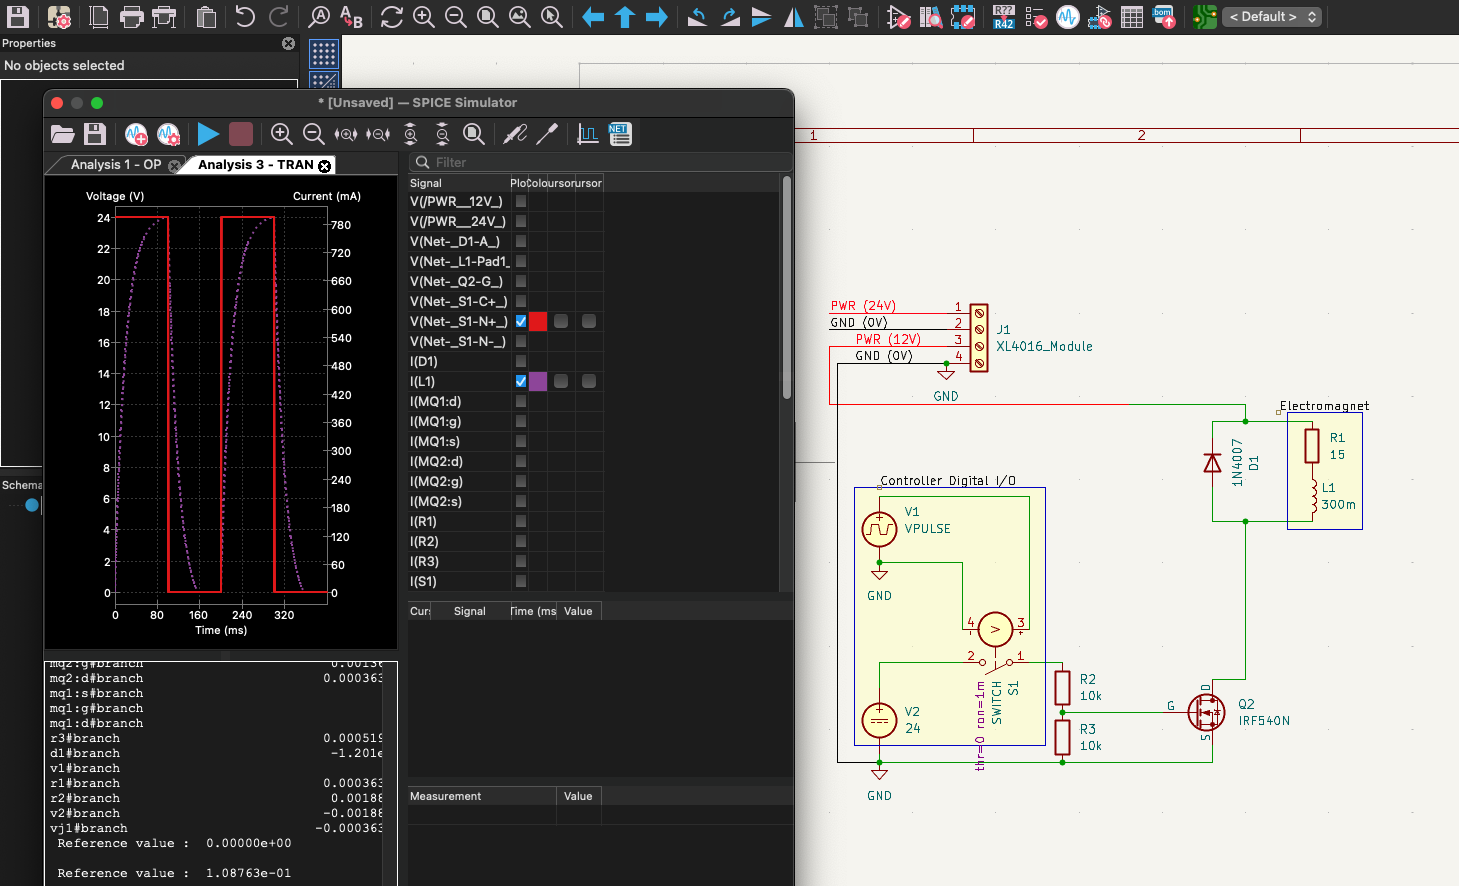
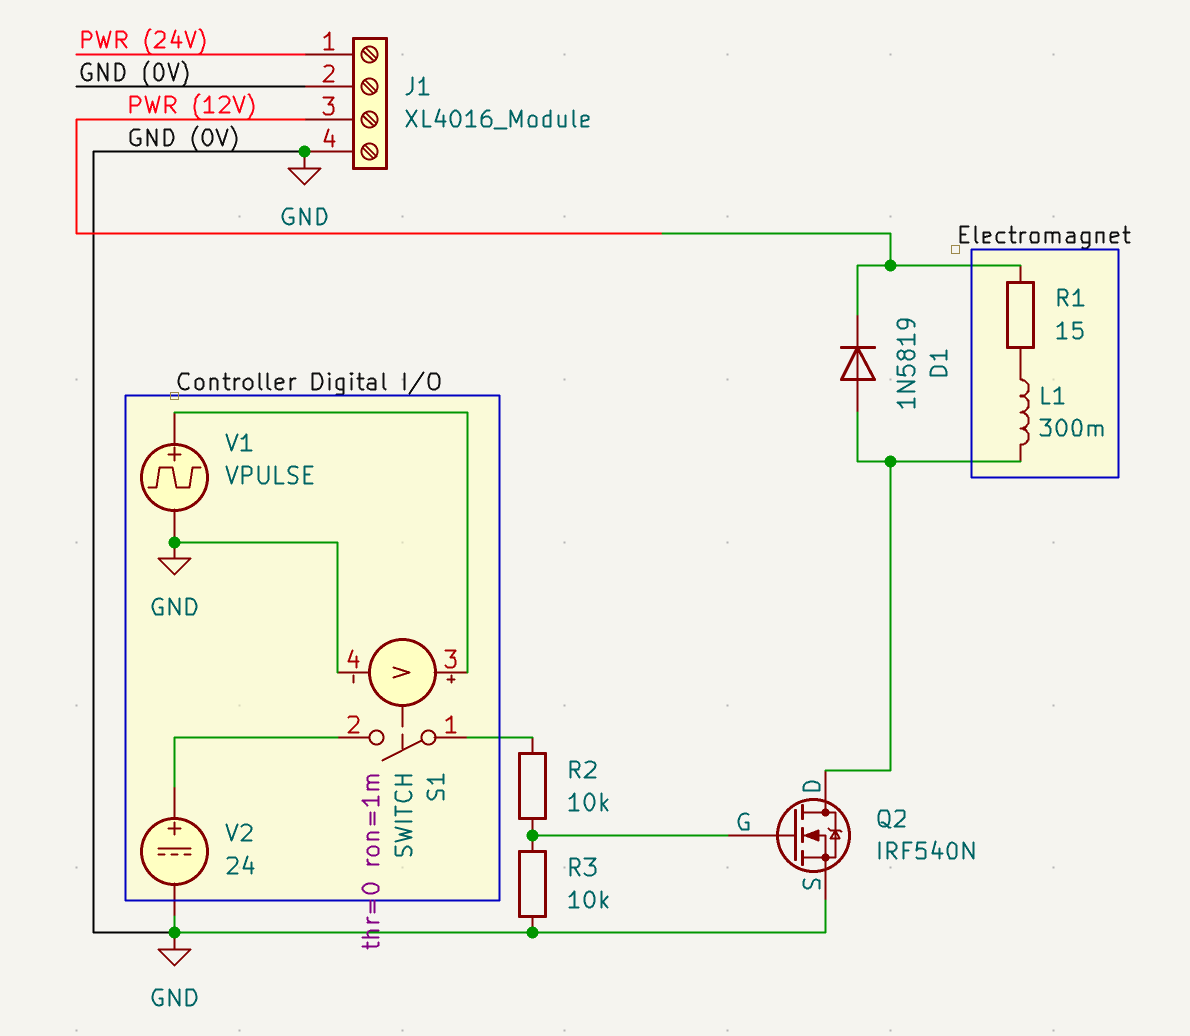
Add end-effector magnet feasibility calculation and driver circuit design page
- 03_calculations: magnet feasibility for a 1/4 inch steel shaft (vertical and
  horizontal lift)
- 04_design: driver circuit page with updated KiCad schematic (1N5819),
  simulation with and without the flyback diode, built-circuit photos and
  wire table
- README: add end effector photo, update folder table and open issues

diff --git a/Engineering_Portfolio/end-effector/README.md b/Engineering_Portfolio/end-effector/README.md
@@ -8,25 +8,8 @@ The end effector is everything mounted on the end of the UR5e arm that lets it f
 - **Power and drive circuit.** The robot control box supplies 24 V, a buck converter steps it down to the magnet's 12 V, and a MOSFET switches the magnet on and off. A controller digital output drives the MOSFET, and a flyback diode across the magnet absorbs the voltage spike when it switches off.
 - **Wire management and dressing.** Strain-relief clamps, cable clips and a control box board mount that carry the magnet and camera wiring along the arm without loading the connections.
 
-![KiCad schematic and SPICE simulation of the electromagnet driver circuit](09_figures/electromagnet_circuit.png)
-*Figure 1. KiCad schematic of the driver circuit, with a SPICE transient simulation of the switched magnet.*
-
-![Buck converter and MOSFET driver board on the 3D-printed mount](09_figures/buck_and_mosfet_boards.jpg)
-*Figure 2. Built circuit: the buck converter (left) and the MOSFET driver board (right) on their 3D-printed mount.*
-
-Wires entering the top of Figure 2, left to right:
-
-| Board | Wire colour | Connects to |
-|---|---|---|
-| Buck converter | Red | 12 V output, to the magnet |
-| Buck converter | Black | Ground |
-| Buck converter | Red | 24 V input, from the controller's PWR terminal |
-| MOSFET driver | Black | 0 V |
-| MOSFET driver | Red | 24 V digital output from the controller |
-| MOSFET driver | Green | Magnet negative |
-
-![Flyback diode board with wires to the driver circuit and the magnet](09_figures/flyback_diode_board.jpg)
-*Figure 3. Flyback diode board. The wires from the driver circuit connect at one end and the magnet's + and − terminals at the other, with the diode across the two.*
+![End effector mounted on the UR5e wrist](09_figures/end_effector_mounted.png)
+*Figure 1. The end effector mounted on the UR5e wrist, with the cable strain-relief clamp and braided sleeve at the top.*
 
 ## Requirements it serves
 
@@ -50,25 +33,25 @@ Requirement numbers are from the project proposal (Table 2).
 | Folder | Contents |
 |---|---|
 | [`01_requirements/`](01_requirements/) | End-effector requirements taken from R2, R3, R5 and R7, each with its rationale and test |
-| [`02_decisions/`](02_decisions/) | [Why an electromagnet](02_decisions/electromagnet.md) · [Driver and power architecture](02_decisions/driver-and-power.md) · [Release sensing](02_decisions/release-sensing.md) |
-| [`03_calculations/`](03_calculations/) | Magnet feasibility: how much the magnet can lift from a 1/4 inch (6.35 mm) steel shaft, checked for slipping in vertical lift and in horizontal lift. Camera field-of-view check |
-| [`04_design/`](04_design/) | Circuit schematic and KiCad simulation, with voltage traces with and without the flyback diode |
+| [`02_decisions/`](02_decisions/) | Why an electromagnet · Driver and power architecture · Release sensing |
+| [`03_calculations/`](03_calculations/) | [Magnet feasibility](03_calculations/magnet-feasibility.md): whether the magnet can hold a 1/4 inch (6.35 mm) steel shaft without slipping, checked for vertical and horizontal lift |
+| [`04_design/`](04_design/) | [Driver circuit](04_design/driver-circuit.md): KiCad schematic, simulation with and without the flyback diode, photos of the built circuit, and the wire connections |
 | [`05_code/`](05_code/) | Empty for now. The magnet is switched from the teach pendant |
 | [`06_experiments/`](06_experiments/) | Build log and test notes |
 | [`08_references/`](08_references/) | UR5e user manual (v5.8), [ZYE1-P series electromagnet datasheet](https://static.chipdip.ru/lib/802/DOC033802024.pdf) |
-| [`09_figures/`](09_figures/) | Circuit schematic and simulation, and photos of the built circuit |
+| [`09_figures/`](09_figures/) | Figures used in this section, including the KiCad schematic |
 
 ## Open issues
 
-- **The strain-relief clamps force a hard 90° bend in the cable.** The clamps hold the cable so that pulling on it does not load the connections. In some arm configurations the cable leaves the clamp at a sharp 90° bend, which is hard on the wire and the connection the clamp is meant to protect. Which configurations cause it has not been recorded yet.
+- **The strain-relief clamps force a hard 90° bend in the cable.** The clamps hold the cable so that pulling on it does not load the connections. The bend happens when the final wrist joint rotates so that the cable's exit from the clamp lines up with the rest of the wrist. It is hard on the wire and on the connection the clamp is meant to protect.
 - **The magnet gets warm enough to soften the PLA mount.** The mount currently encases the magnet completely in plastic, which may be trapping heat. These tests switched the magnet on and off from the teach pendant, so it stayed on for long periods at a much higher duty cycle than it will see in use. If the robot is moving tools constantly, the duty cycle will be 50% at most. The warming under realistic use is still unknown.
 
 ## Next steps
 
-1. Photograph the arm configurations that put the cable into a 90° bend and note them in the build log in [`06_experiments/`](06_experiments/). Then redesign the strain-relief clamps so the cable keeps a gentler bend in those configurations.
+1. Redesign the strain-relief clamps so the cable keeps a gentler bend when the final wrist joint rotates into those positions.
 2. Watch how warm the magnet gets at duty cycles closer to real use, up to 50%, and note what is seen in the build log.
 3. If the magnet still heats up under realistic use, pick one or both:
    - Print the mount in PETG or ABS, which soften at higher temperatures than PLA.
    - Add passive cooling by leaving more of the magnet exposed, or by fastening heat sinks to the magnet's body.
 4. Run the 0.45 kg bench test for R3, using the feasibility calculation as the expected result.
-5. Implement release by force sensing, after checking what the UR5e's wrist sensor can do (see [Release sensing](02_decisions/release-sensing.md)). The sensor's listed accuracy is 4 N, so the pull threshold has to sit well above that.
+5. Implement release by force sensing, after checking what the UR5e's wrist sensor can do (see the release sensing decision). The sensor's listed accuracy is 4 N, so the pull threshold has to sit well above that.

diff --git a/Engineering_Portfolio/end-effector/03_calculations/magnet-feasibility.md b/Engineering_Portfolio/end-effector/03_calculations/magnet-feasibility.md
@@ -1,0 +1,87 @@
+# Magnet Feasibility
+
+This calculation evaluates whether it is feasible for the electromagnet acquired, rated for 400 N, to hold a 1/4 inch (6.35 mm) steel screwdriver shaft without slipping, up to the 0.45 kg required by R3.
+
+## 1. Pull force
+
+For a flux density $B$ (in tesla) crossing a gap, the pull per unit area is
+
+$$p = \frac{B^2}{2\mu_0}$$
+
+where $\mu_0 = 4\pi \times 10^{-7}\ \mathrm{N/A^2}$ is the permeability of free space. The force on a contact of area $A$ is therefore
+
+$$F = \frac{B^2 A}{2\mu_0}$$
+
+Steel cannot carry unlimited flux. Above its saturation flux density $B_{sat}$, adding more current does not raise $B$ any further.
+
+## 2. Force available at the shaft
+
+The screwdriver shaft lies parallel to the magnet face. Flux enters the shaft from the face and travels along the shaft, so the flux the shaft can carry is limited by its cross-section:
+
+$$A_s = \frac{\pi d^2}{4} = \frac{\pi (6.35)^2}{4} = 31.7\ \mathrm{mm^2}$$
+
+The flux crossing the contact is at most $B_{sat} A_s$, and the flux density at the contact is at most $B_{sat}$, so the most force the contact can transmit is
+
+$$F_{sat} = \frac{B_{sat}^2 A_s}{2\mu_0}$$
+
+Assuming a saturation flux density of $B_{sat} = 1.5\ \mathrm{T}$,
+
+$$F_{sat} = \frac{(1.5)^2 (31.7\times10^{-6})}{2(4\pi\times10^{-7})} = 28.4\ \mathrm{N}$$
+
+For a single contact between the face and the shaft, the force available at the shaft is $F_n = 28.4\ \mathrm{N}$.
+
+## 3. Required force
+
+The tool weight is
+
+$$W = mg$$
+
+with $g = 9.81\ \mathrm{m/s^2}$. Acceleration of the arm is neglected.
+
+| Tool mass | $W$ |
+|---|---|
+| 0.15 kg (screwdriver) | 1.47 N |
+| 0.45 kg (R3) | 4.41 N |
+
+**Vertical lift.** The magnet face points down and the tool hangs from it, so the weight acts straight off the face. The tool stays on while
+
+$$F_n \ge W$$
+
+**Horizontal lift.** The magnet face is vertical and the weight acts along the face. Friction must prevent sliding:
+
+$$\mu F_n \ge W \quad\Rightarrow\quad F_n \ge \frac{W}{\mu}$$
+
+Assuming clean, dry steel on steel, $\mu = 0.5$.
+
+## 4. Evaluation
+
+The margin is $F_n / F_{required}$, with $F_n = 28.4\ \mathrm{N}$. The check passes when the margin is at least 1.
+
+**Vertical lift**
+
+| Tool mass | $F_{required}$ | Margin | Result |
+|---|---|---|---|
+| 0.15 kg | 1.47 N | 19.3 | Pass |
+| 0.45 kg | 4.41 N | 6.4 | Pass |
+
+**Horizontal lift**
+
+| Tool mass | $F_{required}$ | Margin | Result |
+|---|---|---|---|
+| 0.15 kg | 2.94 N | 9.6 | Pass |
+| 0.45 kg | 8.83 N | 3.2 | Pass |
+
+## Assumptions
+
+- The saturation flux density of the screwdriver steel is $B_{sat} = 1.5\ \mathrm{T}$, below the 1.6 T to 2 T typical of iron-core electromagnets. It has not been measured.
+- The friction coefficient of clean, dry steel on steel is $\mu = 0.5$, the low end of the tabulated range. It has not been measured on the real parts.
+- The shaft touches the magnet face at a single contact. A shaft bridging the centre and outer poles has two contacts, so the single-contact value is conservative.
+- The saturation limit of the shaft is taken as the force available. Air gaps and the narrow line contact of a round shaft would reduce the real force.
+
+## Sources
+
+- [ZYE1-P series electro holding magnets datasheet](https://static.chipdip.ru/lib/802/DOC033802024.pdf): 400 N rating.
+- [Magnet Energy: Maxwell magnetic force equation](https://www.magnetnrg.com/?p=370): $F = B^2 A / 2\mu_0$.
+- [US patent 10547218, background on electromagnets](https://image-ppubs.uspto.gov/dirsearch-public/print/downloadPdf/10547218): iron-core field limited to about 1.6 T to 2 T.
+- [Misumi: coefficient of friction](https://us.misumi-ec.com/blog/coefficient-of-friction/): 0.5 to 0.8 for clean, dry steel on steel.
+- Project proposal, Table 2: R3 and the 0.15 kg tool mass.

diff --git a/Engineering_Portfolio/end-effector/04_design/driver-circuit.md b/Engineering_Portfolio/end-effector/04_design/driver-circuit.md
@@ -1,0 +1,41 @@
+# Driver Circuit
+
+The driver circuit powers the electromagnet from the UR5e control box and switches it on and off from a controller digital output.
+
+## How it works
+
+- **Power.** The controller's PWR terminal supplies 24 V to an XL4016 buck converter module, which steps it down to the 12 V the magnet needs.
+- **Switching.** The magnet sits between the 12 V output and the drain of an IRF540N MOSFET. A 24 V controller digital output drives the gate through two 10 kΩ resistors in a divider, which holds the gate at about 12 V when the output is on.
+- **Flyback diode.** The magnet is a coil, so when the MOSFET turns off its current has nowhere to go and the voltage across the coil spikes. A 1N5819 diode across the magnet gives that current a path and protects the MOSFET.
+
+![KiCad schematic of the driver circuit](../09_figures/electromagnet_circuit.png)
+*Figure 1. KiCad schematic of the driver circuit. The magnet is modelled as a 15 Ω resistance in series with a 300 mH inductance.*
+
+## Simulation
+
+The circuit was simulated in KiCad with the MOSFET switching the magnet on and off, first without and then with the flyback diode. Without the diode, the voltage spikes to about 3 kV when the MOSFET turns off, far above the IRF540N's 100 V drain-source rating, and the magnet current drops to zero immediately. With the diode, the voltage rises to about 12.8 V and stays there, and the current decays gradually.
+
+![Simulated voltage and current without the flyback diode](simulation_without_flyback.png)
+*Figure 2. Simulated voltage (green) and magnet current (purple, dotted) without the flyback diode.*
+
+![Simulated voltage and current with the flyback diode](simulation_with_flyback.png)
+*Figure 3. Simulated voltage (green) and magnet current (purple, dotted) with the flyback diode.*
+
+## Built circuit
+
+![Buck converter and MOSFET driver board on the 3D-printed mount](buck_and_mosfet_boards.jpg)
+*Figure 4. The buck converter (left) and the MOSFET driver board (right) on their 3D-printed mount.*
+
+Wires entering the top of Figure 4, left to right:
+
+| Board | Wire colour | Connects to |
+|---|---|---|
+| Buck converter | Red | 12 V output, to the magnet |
+| Buck converter | Black | Ground |
+| Buck converter | Red | 24 V input, from the controller's PWR terminal |
+| MOSFET driver | Black | 0 V |
+| MOSFET driver | Red | 24 V digital output from the controller |
+| MOSFET driver | Green | Magnet negative |
+
+![Flyback diode board with wires to the driver circuit and the magnet](flyback_diode_board.jpg)
+*Figure 5. Flyback diode board. The wires from the driver circuit connect at one end and the magnet's + and − terminals at the other, with the diode across the two.*
